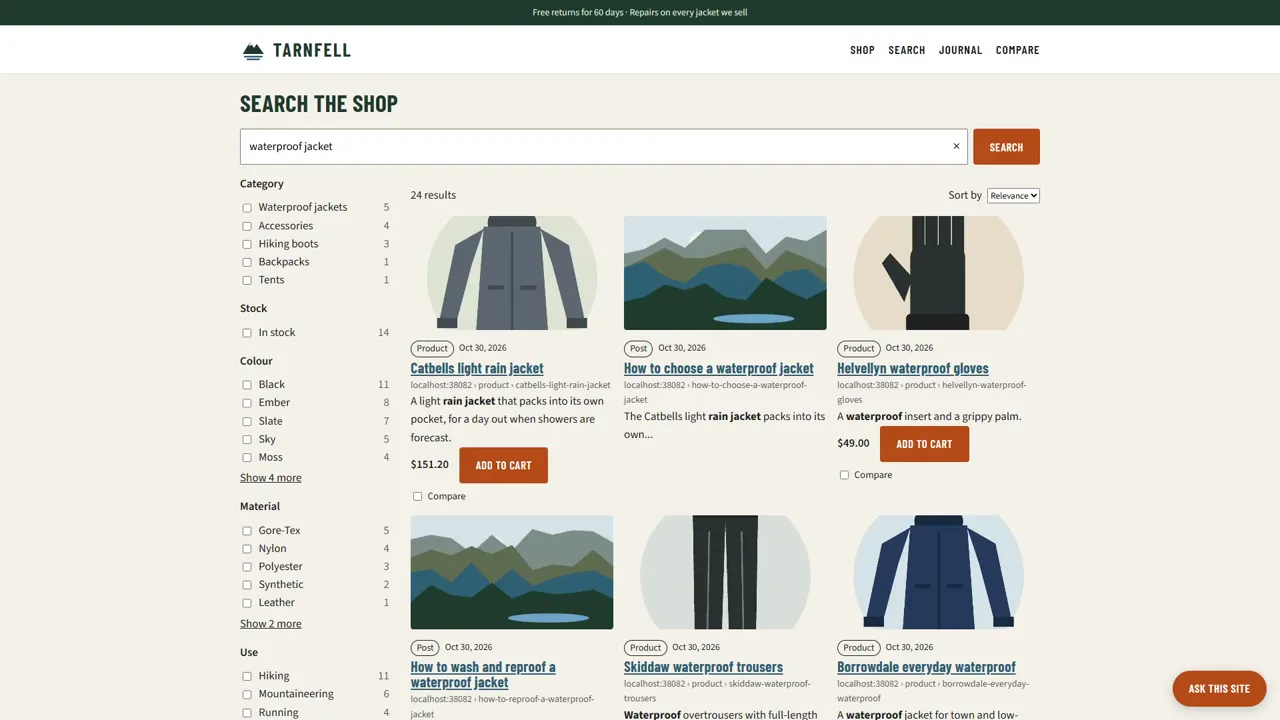
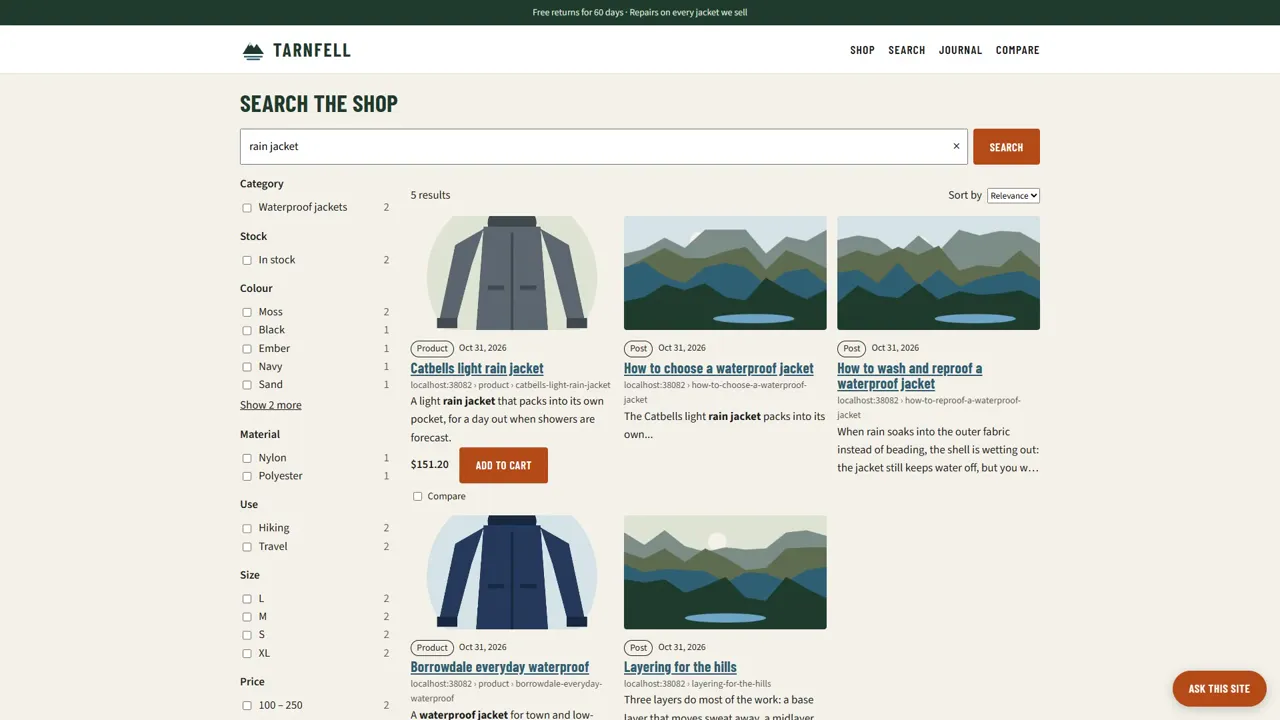
test(wordpress): the demo story holds on its results and checks its answers, with D257-D261 filed
- This commit enhances the e2e tests for the WordPress demo to ensure that the search functionality accurately reflects user queries and provides relevant results.
- It introduces a mechanism to handle cases where a refined search yields no results, allowing the system to suggest close matches based on the user's input.
- The narration for each chapter in the demo video is improved by adding a second line that describes the on-screen content, enhancing user engagement.
- Several test cases have been updated to verify that the search block correctly interprets user queries and responds appropriately, including handling misspellings and filter understanding.
- Documentation has been updated to reflect these changes, ensuring clarity on the expected behavior of the search functionality and the demo's narrative structure.

diff --git a/docs/IMPROVEMENTS.md b/docs/IMPROVEMENTS.md
@@ -386,6 +386,91 @@ reindex reports the same.
 **Done when.** On a Turing with RAG embedding on, `run-docker.cmd demo` completes, and a
 unit test covers a timed-out import counted as sent rather than failed.
 
+### XLIX.102 Waterproof trousers have their own category (D257)
+
+**What happens.** `demo/seed/catalog.php` files *Skiddaw waterproof trousers* under
+`waterproof-jackets`, and `images.php` draws by category, so the trousers are drawn as a
+jacket. The story's chapter 4 searches "waterproof jacket" and ticks the first three
+Compare boxes, which are Catbells light rain jacket, Helvellyn waterproof gloves and
+Skiddaw waterproof trousers: the video compares a jacket with gloves and trousers.
+Ticking the "Waterproof jackets" category first still keeps the trousers in (measured on
+the demo stack).
+
+**What it should do.**
+- A `waterproof-trousers` category (en and `pt_BR.php`), its care line, and a trousers
+  drawing in `images.php`; the gaiters may join it.
+- Chapter 4 ticks the category filter before comparing, so it shows the filters and compares
+  three jackets (Catbells, Borrowdale, Helvellyn mountain shell or Wasdale running shell).
+- The seed's other near-misses checked in the same pass: the sleeping mat and silk liner sit
+  under `sleeping-bags`.
+
+**Done when.** The story's chapter 4 compares three waterproof jackets, and no product's
+drawing contradicts its name.
+
+### XLIX.103 Close matches when the refined search finds nothing (D258)
+
+**What happens.** A shopper's sentence of five words or more often lists **0 results**
+while the answer above them names products that fit (search block on the demo stack):
+"waterproof hiking boots under $150 for wet hills" → 0 results, the answer recommends
+the Scafell waterproof hiking boot at $143.20; "lightweight tent for two under $400" →
+0, the answer names the Glaramara two-person tent; "warm jacket for a cold night
+camping" → 0. nl-filters reads the price into a filter, but the remaining words are
+searched as they are, so every one of them must match.
+
+**What it should do.** When the refined search finds nothing, the block retries with the
+remaining words relaxed (any of them, best-first), and failing that lists the products
+the answer cites; it says which it did ("Showing close matches"). The shopper never
+reads an answer about products the page says do not exist.
+
+**Done when.** The three sentences above list the products their answers name, with a
+test on the search block for the fallback.
+
+### XLIX.104 Show the corrected results (D259)
+
+**What happens.** Searching `helvelyn` (one letter off *Helvellyn*, four products and a
+range of the demo) shows "Did you mean: helvellyn" over **No results found**: the
+shopper has to click again to see anything. The story's chapter 2 shows this, and on
+video it reads as a failure.
+
+**What it should do.** When a query finds nothing and Turing's spell-check offers a
+correction that does, the block searches the correction and says so ("Showing results
+for *helvellyn*. Search instead for *helvelyn*"), as the large shops do. Turing's own
+autocorrection may already do it on the first request; the block sends
+`autoCorrectionDisabled: true` on the refined one — check which call should carry it.
+
+**Done when.** `helvelyn` lists the Helvellyn products with the line above, and the
+story's chapter 2 shows results for it.
+
+### XLIX.105 Answer a sentence whose filters were understood (D260)
+
+**What happens.** The search block asks Turing for an answer only when the query is a
+question or has five words or more (`isQuestion` in `src/public/search-block.js`), while
+it reads filters from three words (`readsAsSentence`). So "rain jacket under $400" is
+understood (Price: ≤ 400, two jackets) and gets no answer, and "a rain jacket under
+$400" gets one: one word decides, which a shopper cannot know.
+
+**What it should do.** A query whose filters Turing understood is a sentence about a
+need, and is answered like one; the five-word rule stays for queries nothing was read
+from.
+
+**Done when.** "rain jacket under $400" shows an answer on the demo, with a test on the
+block's decision.
+
+### XLIX.106 A second narration line at each chapter's highlight (D261)
+
+**What happens.** After the story learned to hold on its results (each chapter now 10–27
+s), each chapter's narration is one line of 2–8 s read over its card, then the chapter
+plays on in silence. The longest, the kit (27 s), says nothing while the stages, prices
+and cart total are on screen.
+
+**What it should do.** `demo/narration/script.json` takes an optional second line per
+chapter read at its highlight (chapters.json has the time), saying what the screen shows
+("Two tents under four hundred dollars, and an answer that cites them");
+`story-video.mjs` places it there, and `story:narration` buys it like the others.
+
+**Done when.** No chapter has more than about 6 s without a voice, and the takes still
+fit before the next card.
+
 ## L The documentation area
 
 The end-user documentation moves from vigletdocs into this repository, as an Astro +

diff --git a/docs/ROADMAP.md b/docs/ROADMAP.md
@@ -120,6 +120,11 @@ This track has no remaining pending tasks.
 - 📋 **D227** (deps: D225 ✅, D226 ✅, WordPress.org: first review approved and SVN access granted) **A release tag publishes the zip on GitHub only, so the plugin cannot be found or updated from wp-admin** — Sites update plugins from the directory, and a hand-run SVN commit per release gets skipped. → §XLIX.83
 - 📋 **D239** (deps: D237 ✅, D238 ✅, D196 ✅) **Trying the plugin needs Docker or a WordPress host, so a link in a post or on the site cannot open the demo** — A Playground blueprint boots the store in the browser with nothing to install, resets on reload and leaves D196 only Turing to host. → §XLIX.89
 - 📋 **D256** (deps: —) **wp dumont reindex counts a post failed when Turing indexes it after the client's 30 s timeout** — With RAG embedding on, the demo setup exits 1 and reports 50 failures for an index that is complete. → §XLIX.101
+- 📋 **D257** (deps: —) **The demo files waterproof trousers as a jacket, so the video compares a jacket with gloves and trousers** — A viewer sees the comparison chapter put unlike things side by side, and the trousers are drawn as a jacket. → §XLIX.102
+- 📋 **D258** (deps: —) **A sentence about a need lists no results while its answer names products that fit it** — The shopper reads a recommendation for a product the page says does not exist, measured on three demo sentences. → §XLIX.103
+- 📋 **D259** (deps: —) **A misspelt search shows Did you mean over no results, so the shopper has to click again** — On the demo's helvelyn search the video shows a failure where a shop would show the corrected results. → §XLIX.104
+- 📋 **D260** (deps: —) **A query whose filters were understood gets no answer under five words** — One word decides whether rain jacket under 400 is answered, which a shopper cannot know. → §XLIX.105
+- 📋 **D261** (deps: —) **The narrated demo video is silent for most of each chapter once results are held on screen** — Chapters of 10 to 27 s carry one 2 to 8 s line, so the kit plays on with no voice. → §XLIX.106
 
 ## Track T — Releases and links match what the site describes
 
